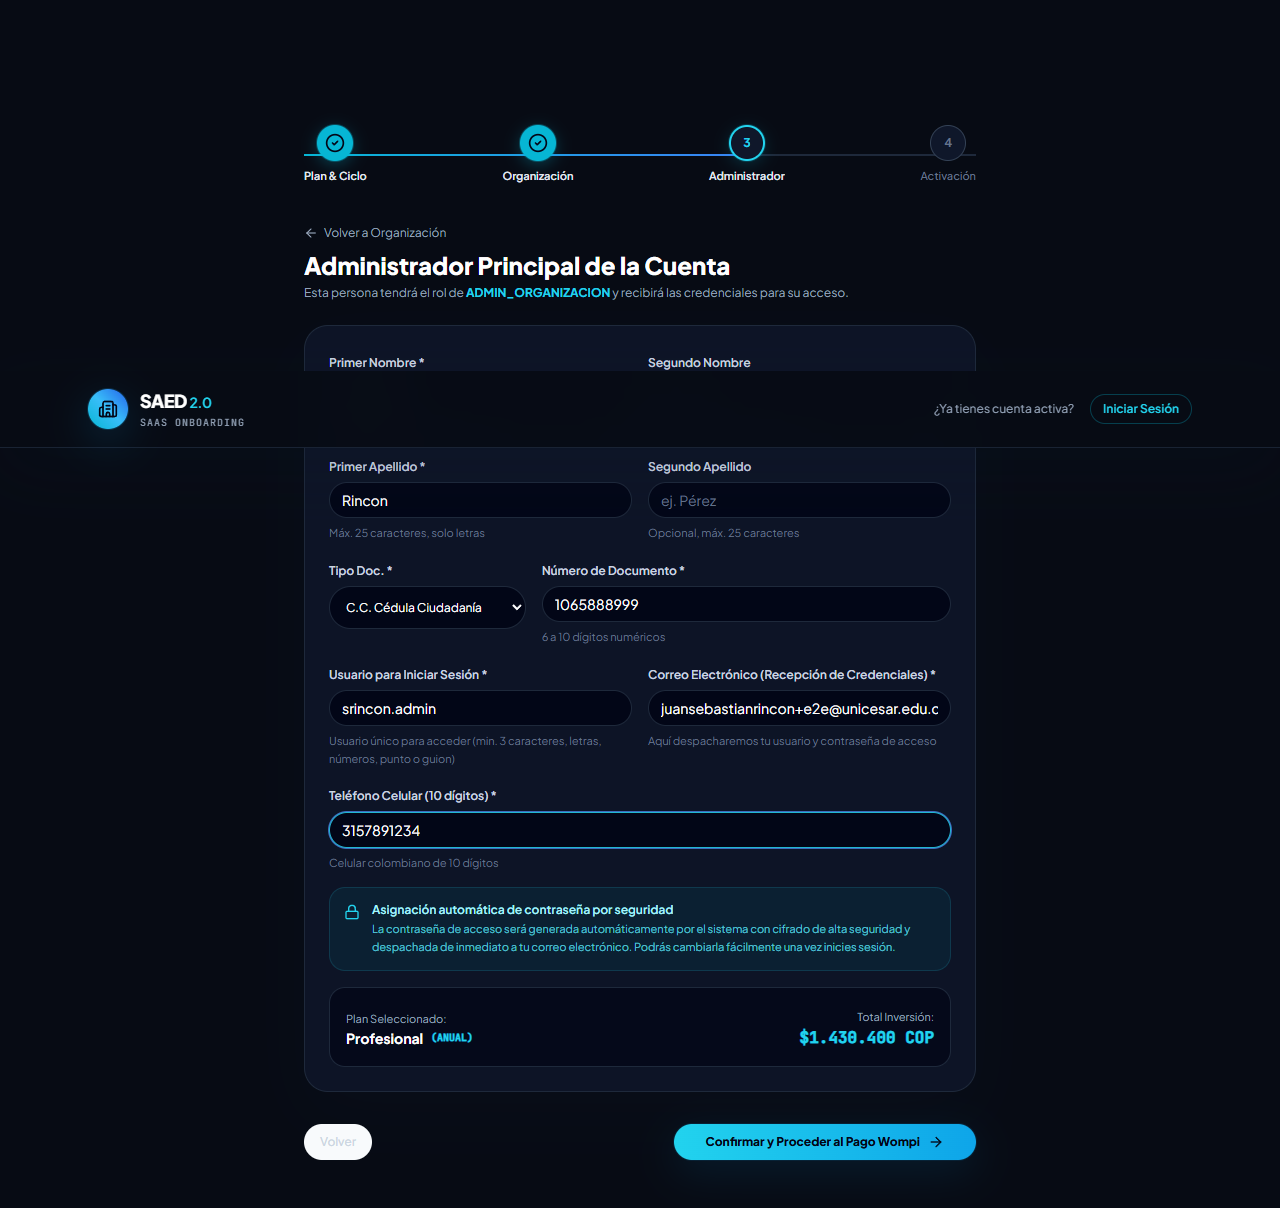
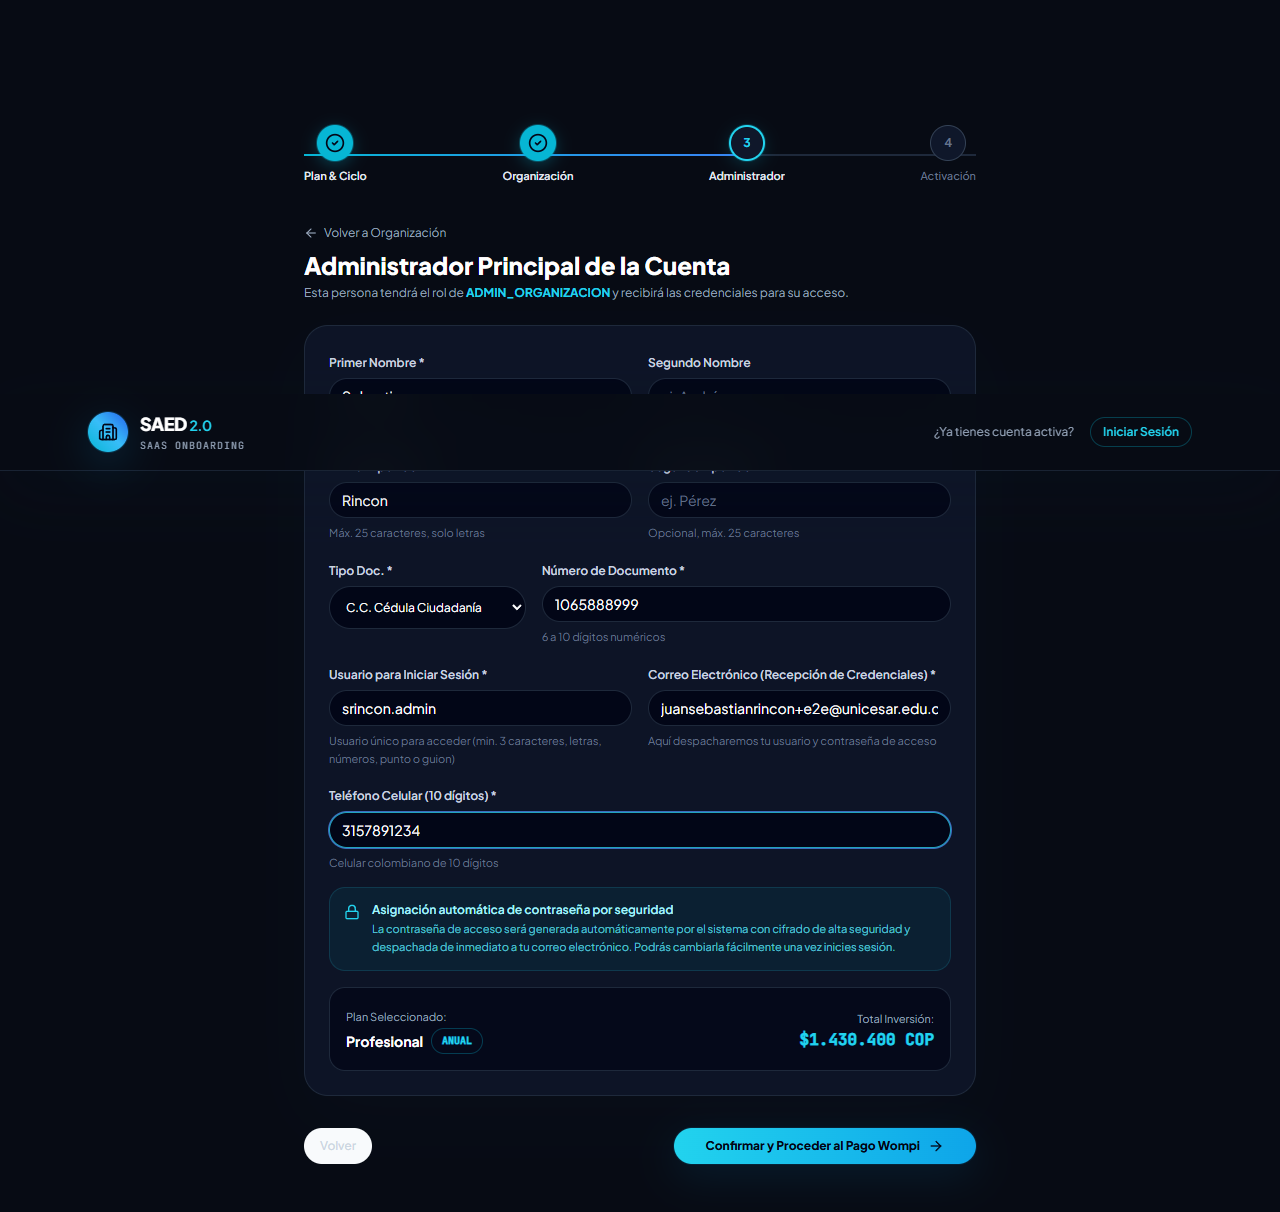
style(ux): enhance onboarding with shadcn ui badges separators and animejs micro-interactions

diff --git a/frontend/src/pages/RegistroOrganizacionPage.jsx b/frontend/src/pages/RegistroOrganizacionPage.jsx
@@ -43,7 +43,10 @@ import { Button } from '../components/ui/button.tsx';
 import { Input } from '../components/ui/input.tsx';
 import { Label } from '../components/ui/label.tsx';
 import { Card, CardHeader, CardTitle, CardContent, CardFooter } from '../components/ui/card.tsx';
+import { Badge } from '../components/ui/badge.tsx';
+import { Separator } from '../components/ui/separator.tsx';
 import { toast } from 'sonner';
+import { animate } from 'animejs';
 
 const FALLBACK_PLANES = [
   {
@@ -143,6 +146,67 @@ export default function RegistroOrganizacionPage() {
   const [pagoAprobado, setPagoAprobado] = useState(false);
   const [pollingPago, setPollingPago] = useState(false);
   const pollingRef = useRef(null);
+
+  // Animation references & micro-interactions (Anime.js v4)
+  const stepContainerRef = useRef(null);
+
+  // Microanimación de entrada al cambiar de paso
+  useEffect(() => {
+    if (stepContainerRef.current) {
+      try {
+        animate(stepContainerRef.current, {
+          opacity: [0, 1],
+          translateY: [12, 0],
+          duration: 350,
+          ease: 'outCubic',
+        });
+      } catch (e) {}
+    }
+  }, [step]);
+
+  // Microanimación de cambio de precio al alternar ciclo de facturación
+  useEffect(() => {
+    try {
+      const priceElements = document.querySelectorAll('.price-tag-anim');
+      if (priceElements && priceElements.length > 0) {
+        animate(priceElements, {
+          scale: [0.94, 1.04, 1],
+          opacity: [0.75, 1],
+          duration: 300,
+          ease: 'outQuad',
+        });
+      }
+    } catch (e) {}
+  }, [billingCycle]);
+
+  // Micro-interacción elástica al seleccionar tarjeta de plan
+  const handleSelectPlan = (planId, e) => {
+    setSelectedPlanId(planId);
+    if (e?.currentTarget) {
+      try {
+        animate(e.currentTarget, {
+          scale: [0.98, 1.015, 1],
+          duration: 250,
+          ease: 'outBack',
+        });
+      } catch (err) {}
+    }
+  };
+
+  // Micro-interacción al seleccionar modalidad de registro
+  const handleSelectTipoRegistro = (tipo, e) => {
+    setTipoRegistro(tipo);
+    setOrgForm((prev) => ({ ...prev, tipoPersona: tipo }));
+    if (e?.currentTarget) {
+      try {
+        animate(e.currentTarget, {
+          scale: [0.98, 1.015, 1],
+          duration: 250,
+          ease: 'outBack',
+        });
+      } catch (err) {}
+    }
+  };
 
   // 1. Fetch available plans
   useEffect(() => {
@@ -341,7 +405,7 @@ export default function RegistroOrganizacionPage() {
     const isErr = touched[touchedKey] && !!errorMsg;
     return `bg-slate-950 text-white rounded-xl text-xs py-3 transition-colors ${
       isErr
-        ? 'border-rose-500 focus:border-rose-400 focus:ring-1 focus:ring-rose-500/30'
+        ? 'border-rose-500 focus:border-rose-400 focus:ring-1 focus:ring-rose-500/30 field-error-shake'
         : 'border-slate-800 focus:border-cyan-400'
     }`;
   };
@@ -367,6 +431,20 @@ export default function RegistroOrganizacionPage() {
       setTouched((prev) => ({ ...prev, ...allTouched }));
       const firstError = Object.values(errs)[0];
       toast.error(firstError);
+
+      // Microanimación de sacudida (shake) en campos con error
+      setTimeout(() => {
+        try {
+          const errInputs = document.querySelectorAll('.field-error-shake');
+          if (errInputs && errInputs.length > 0) {
+            animate(errInputs, {
+              translateX: [-5, 5, -4, 4, -2, 2, 0],
+              duration: 340,
+              ease: 'inOutQuad',
+            });
+          }
+        } catch (e) {}
+      }, 50);
       return;
     }
 
@@ -419,6 +497,20 @@ export default function RegistroOrganizacionPage() {
       setTouched((prev) => ({ ...prev, ...allAdminTouched }));
       const firstError = Object.values(adminErrs)[0];
       toast.error(firstError);
+
+      // Microanimación de sacudida (shake) en campos con error
+      setTimeout(() => {
+        try {
+          const errInputs = document.querySelectorAll('.field-error-shake');
+          if (errInputs && errInputs.length > 0) {
+            animate(errInputs, {
+              translateX: [-5, 5, -4, 4, -2, 2, 0],
+              duration: 340,
+              ease: 'inOutQuad',
+            });
+          }
+        } catch (e) {}
+      }, 50);
       return;
     }
 
@@ -585,6 +677,7 @@ export default function RegistroOrganizacionPage() {
           </div>
         </div>
 
+        <div ref={stepContainerRef} key={step}>
         {/* ========================================================================= */}
         {/* PASO 1: Selección de Plan y Ciclo */}
         {/* ========================================================================= */}
@@ -623,9 +716,9 @@ export default function RegistroOrganizacionPage() {
                   }`}
                 >
                   <span>Facturación Anual</span>
-                  <span className="px-2 py-0.5 rounded-full text-[10px] font-black bg-emerald-500/20 text-emerald-300 border border-emerald-500/30">
+                  <Badge variant="success" className="bg-emerald-500/20 text-emerald-300 border-emerald-500/30 text-[10px] font-black tracking-wide">
                     -20% DCTO
-                  </span>
+                  </Badge>
                 </button>
               </div>
             </div>
@@ -650,7 +743,7 @@ export default function RegistroOrganizacionPage() {
                   return (
                     <div
                       key={plan.idPlan}
-                      onClick={() => setSelectedPlanId(plan.idPlan)}
+                      onClick={(e) => handleSelectPlan(plan.idPlan, e)}
                       className={`relative rounded-3xl p-6 transition-all cursor-pointer border flex flex-col justify-between ${
                         isSelected
                           ? 'bg-slate-900/90 border-cyan-400 ring-2 ring-cyan-400/40 shadow-2xl shadow-cyan-950/40'
@@ -658,9 +751,9 @@ export default function RegistroOrganizacionPage() {
                       }`}
                     >
                       {plan.codigo === 'PRO' && (
-                        <div className="absolute -top-3 right-6 px-3 py-1 rounded-full bg-cyan-500 text-slate-950 text-[10px] font-black uppercase tracking-wider shadow-md">
+                        <Badge className="absolute -top-3 right-6 bg-cyan-500 hover:bg-cyan-400 text-slate-950 text-[10px] font-black uppercase tracking-wider shadow-md">
                           Recomendado
-                        </div>
+                        </Badge>
                       )}
 
                       <div className="space-y-4">
@@ -674,9 +767,9 @@ export default function RegistroOrganizacionPage() {
                               <Building2 className="w-5 h-5" />
                             )}
                           </div>
-                          <span className="text-xs font-mono font-bold text-slate-400 uppercase">
+                          <Badge variant="outline" className="text-xs font-mono font-bold text-slate-400 border-slate-700 uppercase">
                             {plan.codigo}
-                          </span>
+                          </Badge>
                         </div>
 
                         <div>
@@ -688,8 +781,8 @@ export default function RegistroOrganizacionPage() {
                           </p>
                         </div>
 
-                        {/* Price Tag */}
-                        <div className="p-3.5 rounded-2xl bg-slate-950/70 border border-slate-800/80">
+                        {/* Price Tag with Micro-animation */}
+                        <div className="price-tag-anim p-3.5 rounded-2xl bg-slate-950/70 border border-slate-800/80 transition-all">
                           {isCommercial ? (
                             <div>
                               <div className="flex items-baseline gap-1">
@@ -716,8 +809,9 @@ export default function RegistroOrganizacionPage() {
                           )}
                         </div>
 
-                        {/* Límites */}
-                        <div className="space-y-2 text-xs text-slate-300 pt-2 border-t border-slate-800">
+                        {/* Límites con Separador shadcn/ui */}
+                        <Separator className="bg-slate-800/80 my-1" />
+                        <div className="space-y-2 text-xs text-slate-300">
                           <div className="flex justify-between">
                             <span className="text-slate-400">Propiedades:</span>
                             <span className="font-semibold text-white font-mono">
@@ -798,10 +892,7 @@ export default function RegistroOrganizacionPage() {
             <div className="grid grid-cols-1 sm:grid-cols-2 gap-3">
               <button
                 type="button"
-                onClick={() => {
-                  setTipoRegistro('JURIDICA');
-                  setOrgForm((prev) => ({ ...prev, tipoPersona: 'JURIDICA' }));
-                }}
+                onClick={(e) => handleSelectTipoRegistro('JURIDICA', e)}
                 className={`p-4 rounded-2xl border text-left transition-all flex items-start gap-3.5 ${
                   tipoRegistro === 'JURIDICA'
                     ? 'bg-cyan-950/40 border-cyan-400 ring-1 ring-cyan-400/40 shadow-lg shadow-cyan-950/30'
@@ -815,14 +906,14 @@ export default function RegistroOrganizacionPage() {
                 >
                   <Building2 className="w-5 h-5" />
                 </div>
-                <div className="space-y-0.5">
-                  <div className="flex items-center gap-2">
+                <div className="space-y-1 w-full">
+                  <div className="flex items-center justify-between">
                     <span className={`text-xs font-bold ${tipoRegistro === 'JURIDICA' ? 'text-white' : 'text-slate-300'}`}>
                       Empresa / Persona Jurídica
                     </span>
-                    {tipoRegistro === 'JURIDICA' && (
-                      <span className="w-2 h-2 rounded-full bg-cyan-400 animate-pulse" />
-                    )}
+                    <Badge variant="outline" className="text-[10px] text-cyan-400 border-cyan-500/30">
+                      Requiere NIT
+                    </Badge>
                   </div>
                   <p className="text-[11px] text-slate-400 leading-snug">
                     Inmobiliaria, Constructora o Administración PH con NIT.
@@ -832,10 +923,7 @@ export default function RegistroOrganizacionPage() {
 
               <button
                 type="button"
-                onClick={() => {
-                  setTipoRegistro('NATURAL');
-                  setOrgForm((prev) => ({ ...prev, tipoPersona: 'NATURAL' }));
-                }}
+                onClick={(e) => handleSelectTipoRegistro('NATURAL', e)}
                 className={`p-4 rounded-2xl border text-left transition-all flex items-start gap-3.5 ${
                   tipoRegistro === 'NATURAL'
                     ? 'bg-cyan-950/40 border-cyan-400 ring-1 ring-cyan-400/40 shadow-lg shadow-cyan-950/30'
@@ -849,14 +937,14 @@ export default function RegistroOrganizacionPage() {
                 >
                   <User className="w-5 h-5" />
                 </div>
-                <div className="space-y-0.5">
-                  <div className="flex items-center gap-2">
+                <div className="space-y-1 w-full">
+                  <div className="flex items-center justify-between">
                     <span className={`text-xs font-bold ${tipoRegistro === 'NATURAL' ? 'text-white' : 'text-slate-300'}`}>
-                      Persona Natural (Propietario / Dueño)
+                      Persona Natural (Dueño / Propietario)
                     </span>
-                    {tipoRegistro === 'NATURAL' && (
-                      <span className="w-2 h-2 rounded-full bg-cyan-400 animate-pulse" />
-                    )}
+                    <Badge variant="outline" className="text-[10px] text-cyan-400 border-cyan-500/30">
+                      Cédula CC / CE
+                    </Badge>
                   </div>
                   <p className="text-[11px] text-slate-400 leading-snug">
                     Propietario particular o titular de edificio / copropiedad.
@@ -1182,11 +1270,17 @@ export default function RegistroOrganizacionPage() {
               )}
 
               {/* Ubicación Territorial Colombiana en Cascada (Común a ambos) */}
-              <div className="pt-2 border-t border-slate-800 space-y-3">
-                <span className="text-xs font-bold text-slate-300 flex items-center gap-1.5">
-                  <MapPin className="w-3.5 h-3.5 text-cyan-400" />
-                  Ubicación Territorial (Colombia)
-                </span>
+              <Separator className="bg-slate-800/80 my-3" />
+              <div className="space-y-3">
+                <div className="flex items-center justify-between">
+                  <span className="text-xs font-bold text-slate-300 flex items-center gap-1.5">
+                    <MapPin className="w-3.5 h-3.5 text-cyan-400" />
+                    Ubicación Territorial (Colombia)
+                  </span>
+                  <Badge variant="outline" className="text-[10px] text-slate-400 border-slate-800 font-mono">
+                    32 Dptos + D.C.
+                  </Badge>
+                </div>
 
                 <div className="grid grid-cols-1 sm:grid-cols-2 gap-4">
                   <div className="space-y-1.5">
@@ -1304,9 +1398,14 @@ export default function RegistroOrganizacionPage() {
             {tipoRegistro === 'NATURAL' && esMismoAdmin && (
               <div className="p-3.5 rounded-2xl bg-emerald-950/30 border border-emerald-800/40 text-xs text-emerald-300 flex items-start gap-2.5 animate-in fade-in duration-200">
                 <CheckCircle2 className="w-4 h-4 text-emerald-400 shrink-0 mt-0.5" />
-                <div>
-                  <p className="font-semibold text-emerald-200">Datos personales transferidos de tu registro de propietario</p>
-                  <p className="text-emerald-300/80 text-[11px] mt-0.5">
+                <div className="space-y-1 w-full">
+                  <div className="flex items-center justify-between">
+                    <p className="font-semibold text-emerald-200">Datos personales transferidos de tu registro de propietario</p>
+                    <Badge variant="success" className="bg-emerald-500/20 text-emerald-300 border-emerald-500/30 text-[10px] font-medium">
+                      Auto-transferido
+                    </Badge>
+                  </div>
+                  <p className="text-emerald-300/80 text-[11px]">
                     Hemos precargado tus datos. Por favor define tu <strong>nombre de usuario único</strong> para iniciar sesión en SAED.
                   </p>
                 </div>
@@ -1527,14 +1626,16 @@ export default function RegistroOrganizacionPage() {
               <div className="mt-4 p-4 rounded-2xl bg-slate-950/80 border border-slate-800 flex items-center justify-between">
                 <div>
                   <span className="text-[11px] text-slate-400">Plan Seleccionado:</span>
-                  <div className="text-sm font-bold text-white flex items-center gap-2">
+                  <div className="text-sm font-bold text-white flex items-center gap-2 mt-0.5">
                     <span>{currentPlan?.nombre}</span>
-                    <span className="text-[10px] text-cyan-400 font-mono">({billingCycle})</span>
+                    <Badge variant="outline" className="text-[10px] text-cyan-400 border-cyan-500/30 font-mono uppercase">
+                      {billingCycle}
+                    </Badge>
                   </div>
                 </div>
                 <div className="text-right">
                   <span className="text-[11px] text-slate-400">Total Inversión:</span>
-                  <div className="text-base font-black font-mono text-cyan-400">
+                  <div className="price-tag-anim text-base font-black font-mono text-cyan-400">
                     {pricing.totalPesos > 0 ? `$${pricing.totalPesos.toLocaleString('es-CO')} COP` : 'GRATIS (14 días)'}
                   </div>
                 </div>
@@ -1742,6 +1843,7 @@ export default function RegistroOrganizacionPage() {
             )}
           </div>
         )}
+        </div>
       </main>
     </div>
   );
